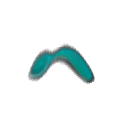
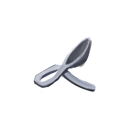
Backend hooks, new relic art

Changed region(s): [[0.2188, 0.2812, 0.75, 0.7188]]

diff --git a/src/main/java/mysticmod/MysticMod.java b/src/main/java/mysticmod/MysticMod.java
@@ -19,6 +19,7 @@ import com.megacrit.cardcrawl.dungeons.AbstractDungeon;
 import com.megacrit.cardcrawl.helpers.*;
 import com.megacrit.cardcrawl.localization.*;
 import com.megacrit.cardcrawl.monsters.city.Healer;
+import com.megacrit.cardcrawl.powers.AbstractPower;
 import com.megacrit.cardcrawl.relics.AbstractRelic;
 import com.megacrit.cardcrawl.rooms.AbstractRoom;
 import com.megacrit.cardcrawl.screens.custom.CustomMod;
@@ -29,14 +30,12 @@ import mysticmod.modifiers.CrystalClear;
 import mysticmod.patches.MysticEnum;
 import mysticmod.patches.MysticTags;
 import mysticmod.potions.EssenceOfMagic;
+import mysticmod.powers.AbstractSpellArteLogicAffectingPower;
 import mysticmod.relics.*;
 
 import java.io.IOException;
 import java.nio.charset.StandardCharsets;
-import java.util.ArrayList;
-import java.util.List;
-import java.util.Map;
-import java.util.Properties;
+import java.util.*;
 
 import static mysticmod.patches.AbstractCardEnum.MYSTIC_PURPLE;
 
@@ -382,17 +381,33 @@ public class MysticMod implements EditCardsSubscriber, EditCharactersSubscriber,
     public static boolean isThisASpell(AbstractCard card) {
         boolean retVal = false;
         if (card instanceof AbstractMysticCard) {
-            if (((AbstractMysticCard)card).isSpell()) { //methods simply call against hasTag, but exist to offer hooks into conditional spell/arte logic
+            if (((AbstractMysticCard)card).isSpell()) { //methods simply call against hasTag, but exist to offer hooks into conditional spell/arte logic within specific cards
                 retVal = true;
             } else if (AbstractDungeon.player != null && AbstractDungeon.player.hasRelic(CrystalBall.ID)
                     && card.type == AbstractCard.CardType.SKILL && !((AbstractMysticCard)card).isArte()) {
                 retVal = true;
             }
-        } else if (card.hasTag(MysticTags.IS_SPELL)) {
+        } else if (card.hasTag(MysticTags.IS_SPELL)) { //First, determine if card is naturally a spell (has the tag)
             retVal = true;
-        } else if (AbstractDungeon.player != null && AbstractDungeon.player.hasRelic(CrystalBall.ID)
-                && card.type == AbstractCard.CardType.SKILL && !card.hasTag(MysticTags.IS_ARTE)) {
-            retVal = true;
+        }
+        if (AbstractDungeon.player != null) { //Then, apply any conditional relic/power logic with provided hooks.
+            Iterator iter;
+            iter = AbstractDungeon.player.relics.iterator();
+            AbstractRelic r;
+            while (iter.hasNext()) {
+                r = (AbstractRelic)iter.next();
+                if (r instanceof AbstractSpellArteLogicAffectingRelic) {
+                    retVal = ((AbstractSpellArteLogicAffectingRelic)r).modifyIsSpell(card, retVal);
+                }
+            }
+            iter = AbstractDungeon.player.powers.iterator();
+            AbstractPower p;
+            while (iter.hasNext()) {
+                p = (AbstractPower)iter.next();
+                if (p instanceof AbstractSpellArteLogicAffectingPower) {
+                    retVal = ((AbstractSpellArteLogicAffectingPower)p).modifyIsSpell(card, retVal);
+                }
+            }
         }
         return retVal;
     }
@@ -408,9 +423,25 @@ public class MysticMod implements EditCardsSubscriber, EditCharactersSubscriber,
             }
         } else if (card.hasTag(MysticTags.IS_ARTE)) { //if card is not a mystic card, repeat tests.
             retVal = true;
-        } else if (AbstractDungeon.player != null && AbstractDungeon.player.hasRelic(CrystalBall.ID)
-                && card.type == AbstractCard.CardType.ATTACK && !card.hasTag(MysticTags.IS_SPELL)) {
-            retVal = true;
+        }
+        if (AbstractDungeon.player != null) { //Then, apply any conditional relic/power logic with provided hooks.
+            Iterator iter;
+            iter = AbstractDungeon.player.relics.iterator();
+            AbstractRelic r;
+            while (iter.hasNext()) {
+                r = (AbstractRelic)iter.next();
+                if (r instanceof AbstractSpellArteLogicAffectingRelic) {
+                    retVal = ((AbstractSpellArteLogicAffectingRelic)r).modifyIsArte(card, retVal);
+                }
+            }
+            iter = AbstractDungeon.player.powers.iterator();
+            AbstractPower p;
+            while (iter.hasNext()) {
+                p = (AbstractPower)iter.next();
+                if (p instanceof AbstractSpellArteLogicAffectingPower) {
+                    retVal = ((AbstractSpellArteLogicAffectingPower)p).modifyIsArte(card, retVal);
+                }
+            }
         }
         return retVal;
     }

diff --git a/src/main/java/mysticmod/relics/CrystalBall.java b/src/main/java/mysticmod/relics/CrystalBall.java
@@ -1,10 +1,11 @@
 package mysticmod.relics;
 
-import basemod.abstracts.CustomRelic;
 import com.badlogic.gdx.graphics.Texture;
+import com.megacrit.cardcrawl.cards.AbstractCard;
 import com.megacrit.cardcrawl.relics.AbstractRelic;
+import mysticmod.patches.MysticTags;
 
-public class CrystalBall extends CustomRelic {
+public class CrystalBall extends AbstractSpellArteLogicAffectingRelic {
     public static final String ID = "mysticmod:CrystalBall";
     public static final Texture IMG = new Texture("mysticmod/images/relics/crystalball.png");
     public static final Texture OUTLINE = new Texture("mysticmod/images/relics/crystalball_p.png");
@@ -18,7 +19,23 @@ public class CrystalBall extends CustomRelic {
         return DESCRIPTIONS[0];
     }
 
-    //Most interaction effects unfortunately hardcoded... everywhere.
+    @Override
+    public boolean modifyIsSpell(AbstractCard card, boolean isSpell) {
+        boolean retVal = isSpell;
+        if (!card.hasTag(MysticTags.IS_ARTE) && card.type == AbstractCard.CardType.SKILL) {
+            retVal = true;
+        }
+        return retVal;
+    }
+
+    @Override
+    public boolean modifyIsArte(AbstractCard card, boolean isArte) {
+        boolean retVal = isArte;
+        if (!card.hasTag(MysticTags.IS_SPELL) && card.type == AbstractCard.CardType.ATTACK) {
+            retVal = true;
+        }
+        return retVal;
+    }
 
     @Override
     public AbstractRelic makeCopy() {

diff --git a/src/main/java/mysticmod/character/MysticCharacter.java b/src/main/java/mysticmod/character/MysticCharacter.java
@@ -38,6 +38,8 @@ public class MysticCharacter extends CustomPlayer {
     private static final String[] NAMES = characterStrings.NAMES;
     private static final String[] TEXT = characterStrings.TEXT;
     private static final Color mysticPurple = CardHelper.getColor(152.0f, 34.0f, 171.0f); //152, 34, 171
+    private static final float DIALOG_X_ADJUSTMENT = 0.0F;
+    private static final float DIALOG_Y_ADJUSTMENT = 220.0F;
     public static final String[] orbTextures = {
             "mysticmod/images/char/orb/layer1.png",
             "mysticmod/images/char/orb/layer2.png",
@@ -173,17 +175,6 @@ public class MysticCharacter extends CustomPlayer {
         retVal.add(SpellBook.ID);
         UnlockTracker.markRelicAsSeen(SpellBook.ID);
         return retVal;
-    }
-
-    @Override
-    public void movePosition(final float x, final float y) {
-        this.drawX = x;
-        this.drawY = y;
-        this.dialogX = this.drawX + DIALOG_X_ADJUSTMENT * Settings.scale;
-        this.dialogY = this.drawY + DIALOG_Y_ADJUSTMENT * Settings.scale;
-        this.animX = 0.0f;
-        this.animY = 0.0f;
-        this.refreshHitboxLocation();
     }
 
     @Override

diff --git a/src/main/java/mysticmod/relics/AbstractSpellArteLogicAffectingRelic.java b/src/main/java/mysticmod/relics/AbstractSpellArteLogicAffectingRelic.java
@@ -1,0 +1,28 @@
+package mysticmod.relics;
+
+import basemod.abstracts.CustomRelic;
+import com.badlogic.gdx.graphics.Texture;
+import com.megacrit.cardcrawl.cards.AbstractCard;
+
+public abstract class AbstractSpellArteLogicAffectingRelic extends CustomRelic {
+
+    public AbstractSpellArteLogicAffectingRelic(String id, Texture texture, RelicTier tier, LandingSound sfx) {
+        super(id, texture, tier, sfx);
+    }
+
+    public AbstractSpellArteLogicAffectingRelic(String id, Texture texture, Texture outline, RelicTier tier, LandingSound sfx) {
+        super(id, texture, outline, tier, sfx);
+    }
+
+    public AbstractSpellArteLogicAffectingRelic(String id, String imgName, RelicTier tier, LandingSound sfx) {
+        super(id, imgName, tier, sfx);
+    }
+
+    public boolean modifyIsSpell(AbstractCard card, boolean isSpell) {
+        return isSpell;
+    }
+
+    public boolean modifyIsArte(AbstractCard card, boolean isArte) {
+        return isArte;
+    }
+}

diff --git a/src/main/java/mysticmod/powers/AbstractSpellArteLogicAffectingPower.java b/src/main/java/mysticmod/powers/AbstractSpellArteLogicAffectingPower.java
@@ -1,0 +1,15 @@
+package mysticmod.powers;
+
+import com.megacrit.cardcrawl.cards.AbstractCard;
+import com.megacrit.cardcrawl.powers.AbstractPower;
+
+public abstract class AbstractSpellArteLogicAffectingPower extends AbstractPower {
+
+    public boolean modifyIsSpell(AbstractCard card, boolean isSpell) {
+        return isSpell;
+    }
+
+    public boolean modifyIsArte(AbstractCard card, boolean isArte) {
+        return isArte;
+    }
+}
